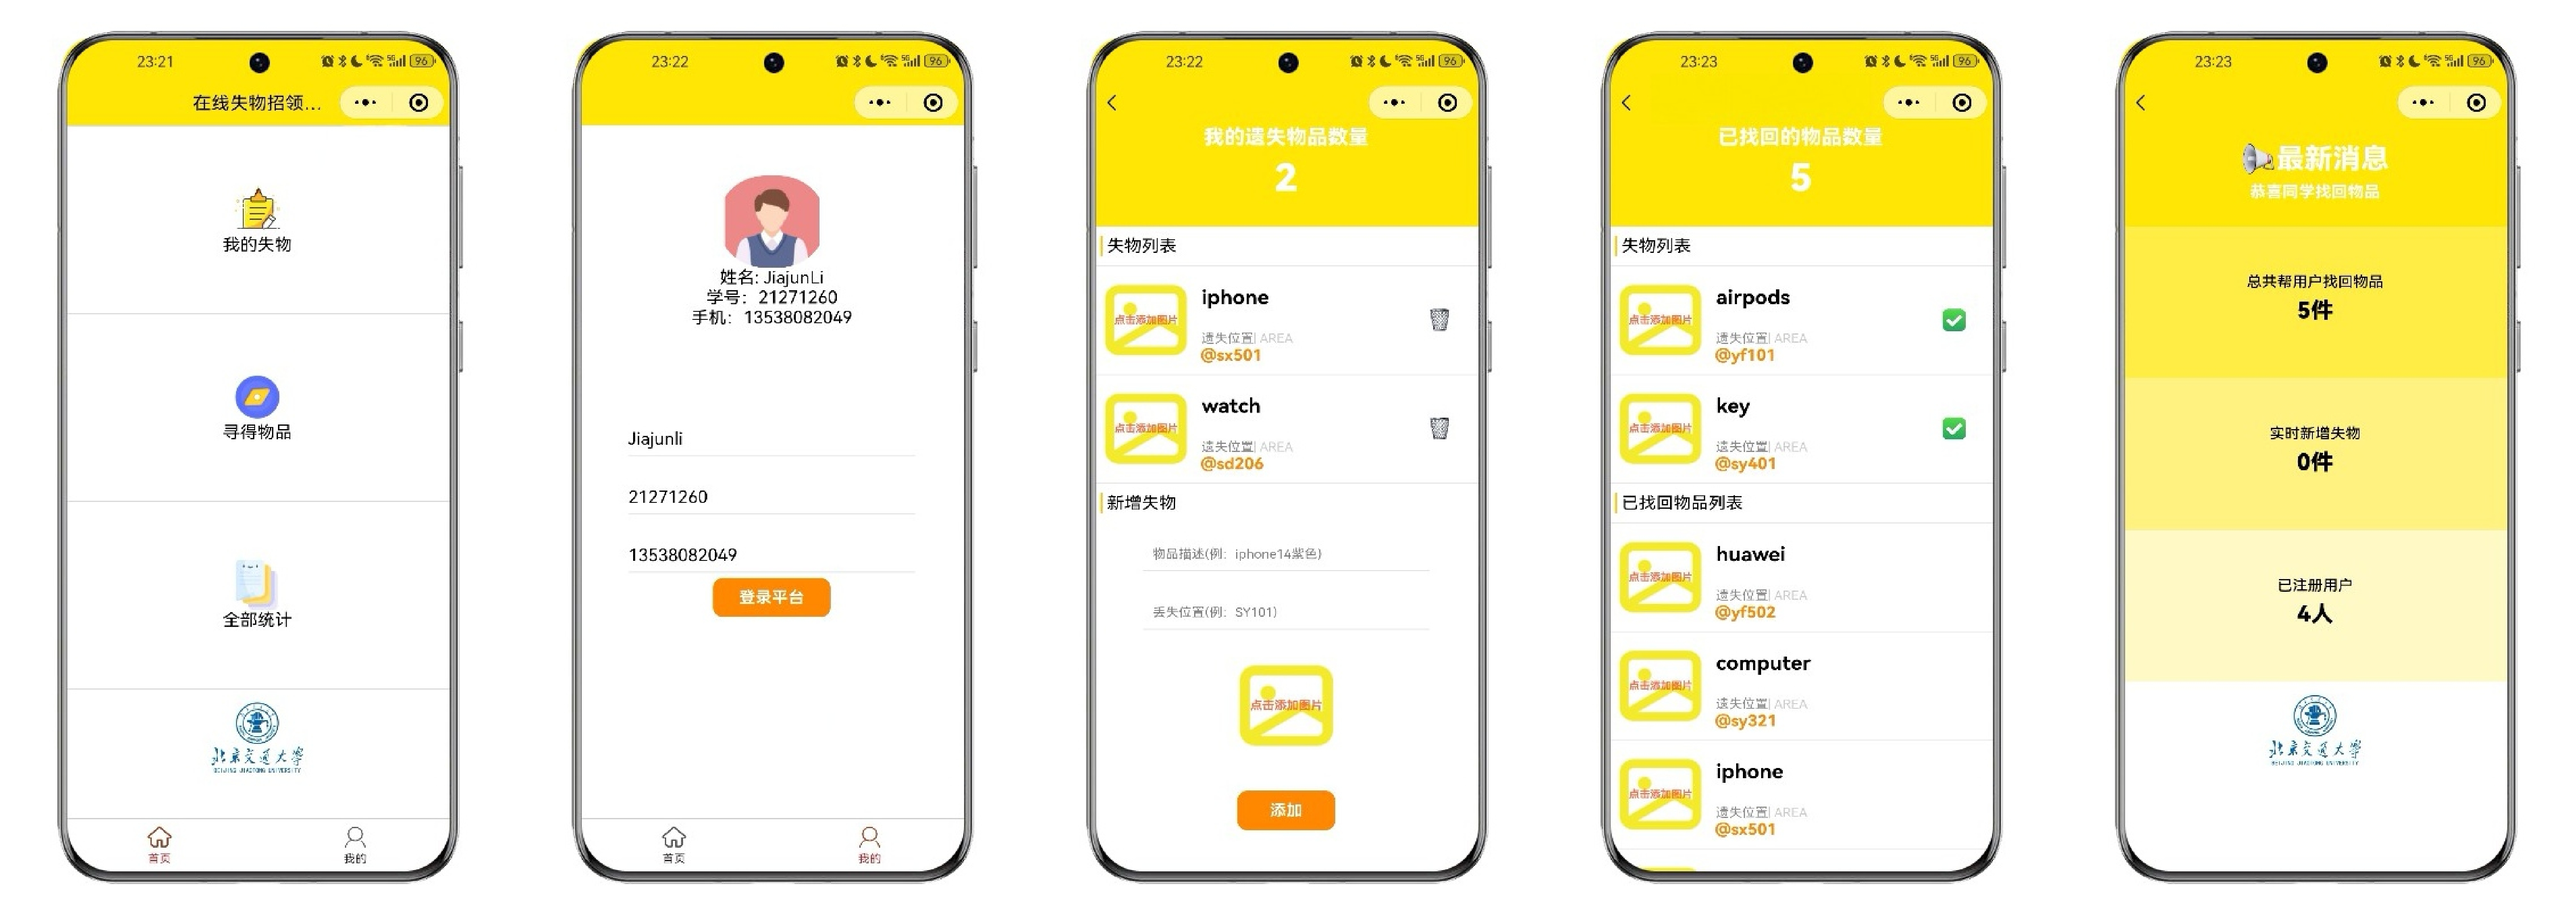
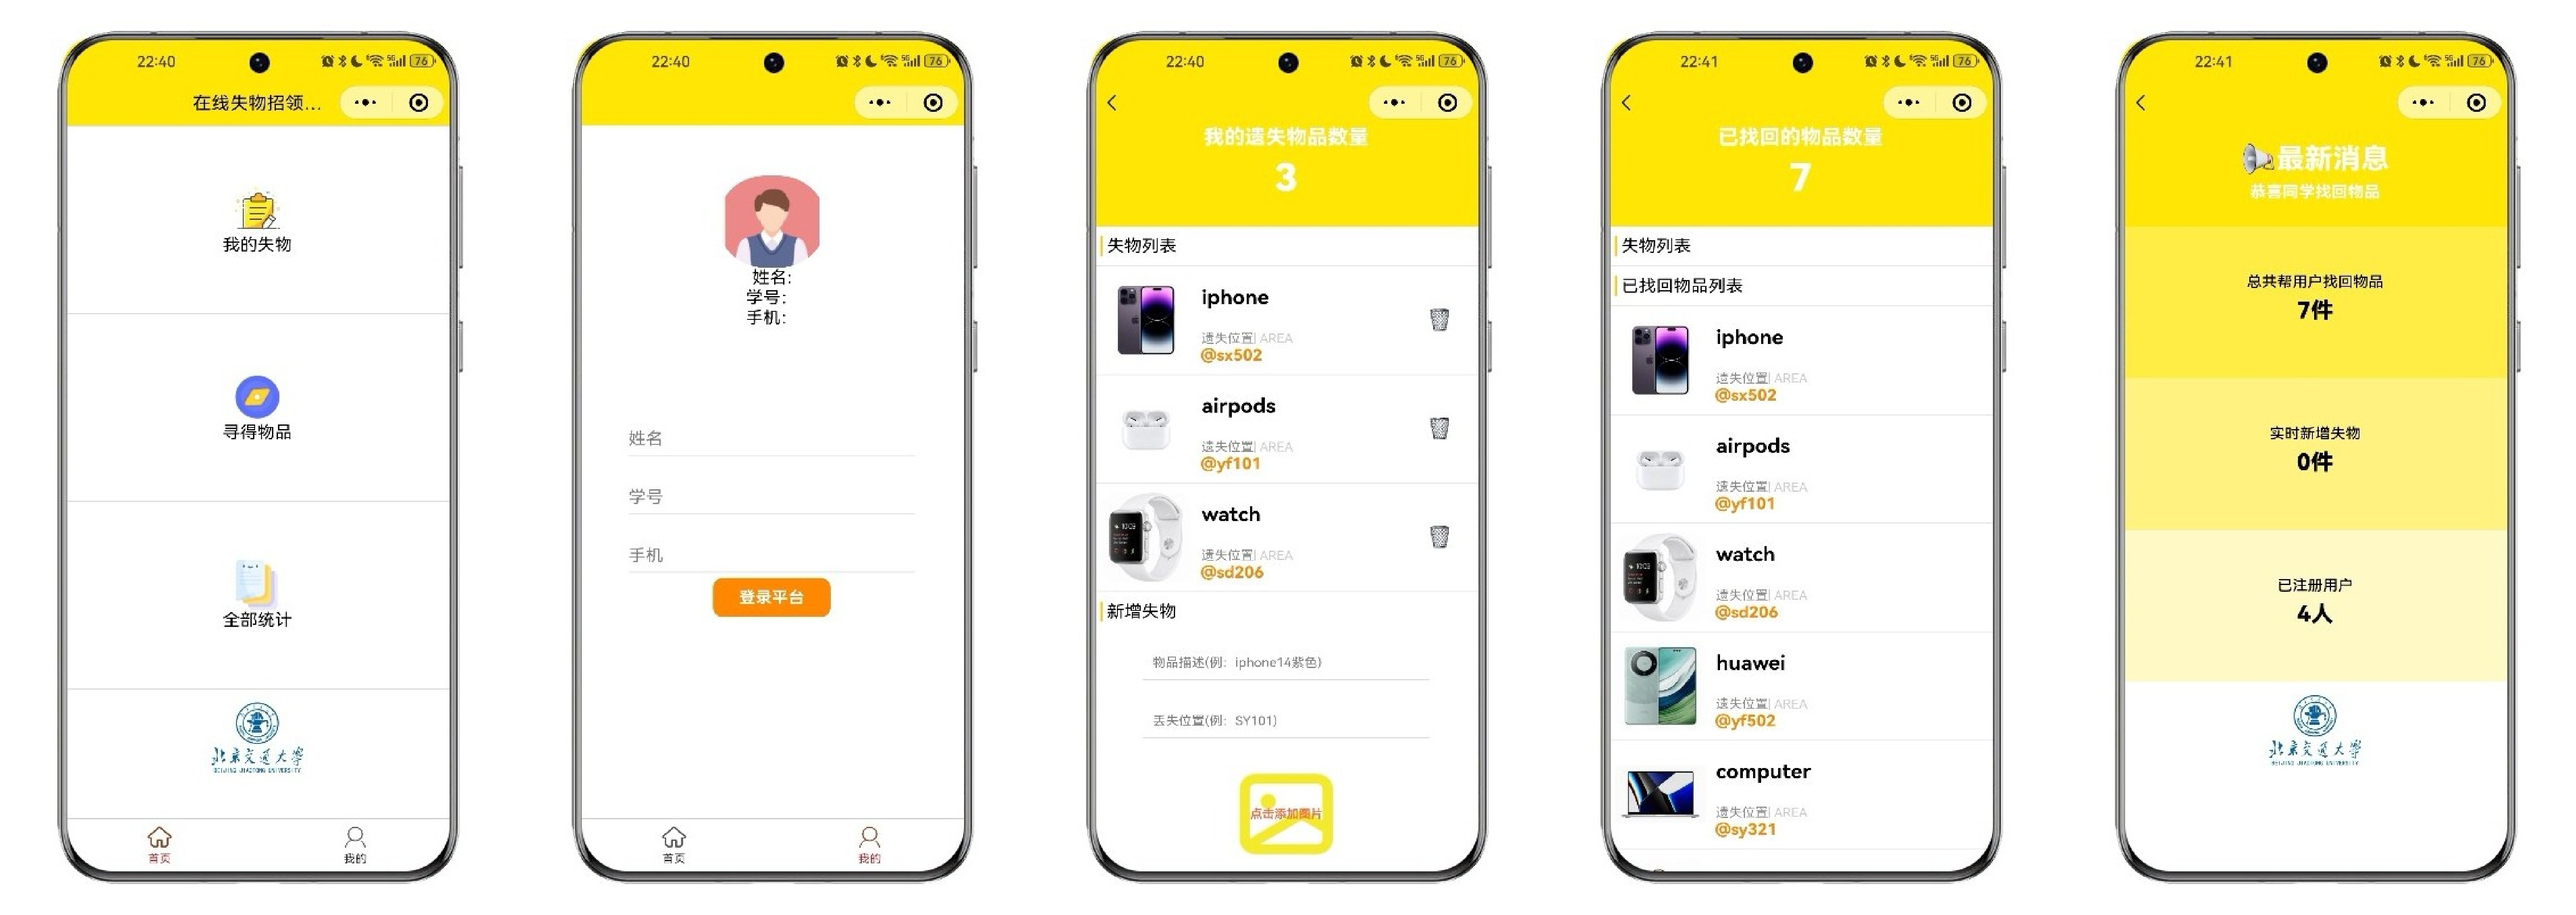
update display

diff --git a/README.md b/README.md
@@ -132,7 +132,7 @@ GOOS={$YOUR_SYSTEM} GOARCH={$YOUR_CPU} go build -o {$EXE_FILE_NAME} -ldflags '-w
 ## Todo
 1. -[x] ~~Optimized the MQTT client architecture and runs based on configuration files~~
 2. -[ ] WXAPP implements online user registration
-3. -[ ] WXAPP realize lost items'photo upload
+3. -[x] ~~WXAPP realize lost items'photo upload
 
 ## License
 This project is licensed under the [MIT License](https://opensource.org/license/MIT) - see the [LICENSE.txt](https://github.com/JJLi0427/MQTT_LostFind_wxapp/blob/main/LICENSE.txt) file for details.
